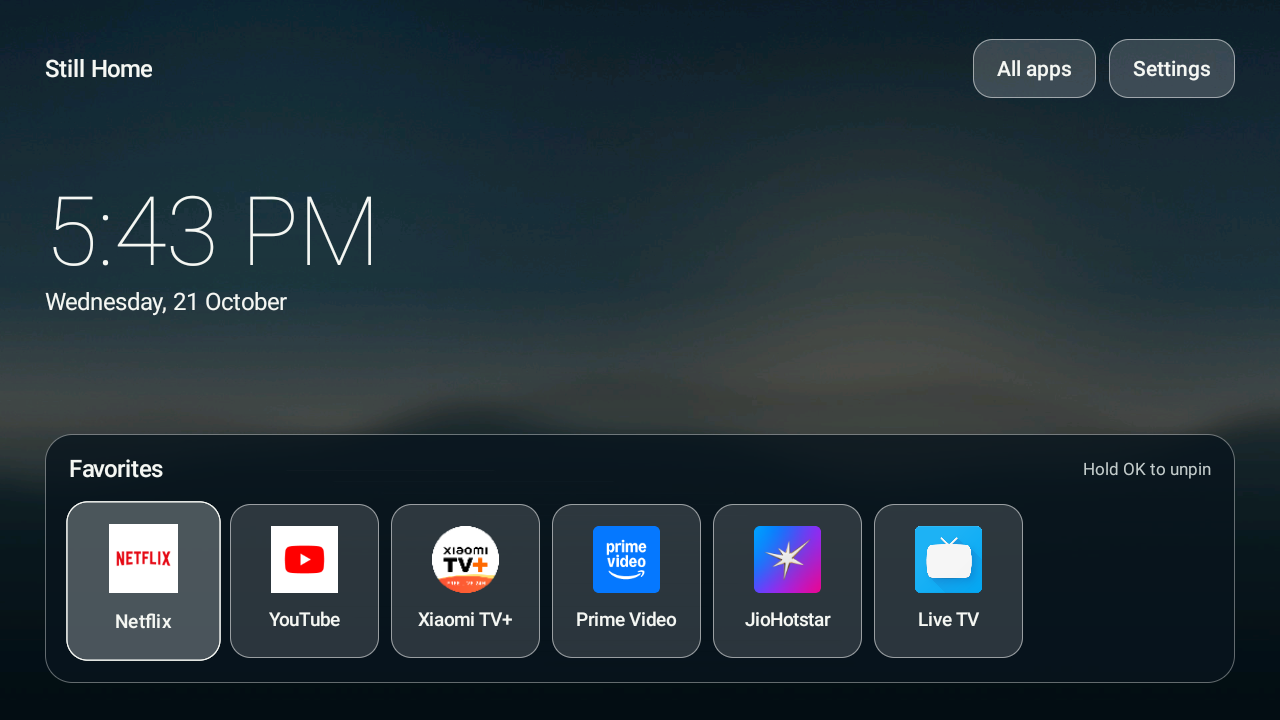
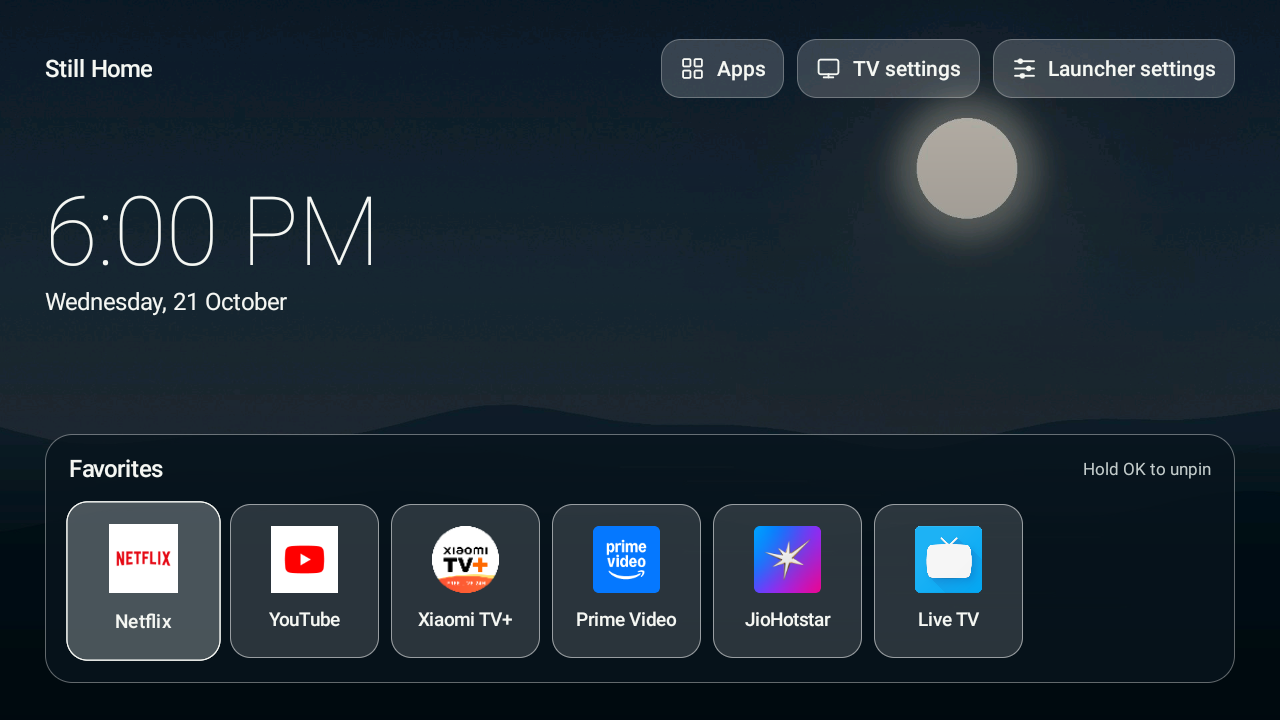
Add TV system settings action to home toolbar

Changed region(s): [[0.0, 0.3361, 1.0, 0.6722], [0.5, 0.0306, 0.9688, 0.3361], [0.0312, 0.275, 0.1875, 0.3667]]

diff --git a/app/src/main/java/dev/stillhome/tv/HomeActivity.java b/app/src/main/java/dev/stillhome/tv/HomeActivity.java
@@ -1,10 +1,12 @@
 package dev.stillhome.tv;
 
 import android.app.Activity;
+import android.content.ActivityNotFoundException;
 import android.content.Intent;
 import android.graphics.Typeface;
 import android.net.Uri;
 import android.os.Bundle;
+import android.provider.Settings;
 import android.text.TextUtils;
 import android.view.Gravity;
 import android.view.View;
@@ -42,6 +44,7 @@ public final class HomeActivity extends Activity {
     private boolean showingAllApps;
     private boolean hasLoadedApps;
     private boolean allAppsDirty = true;
+    private boolean hasRenderedFavorites;
     private int loadGeneration;
 
     @Override
@@ -102,15 +105,26 @@ public final class HomeActivity extends Activity {
         top.addView(brand);
         top.addView(TvUi.space(this), new LinearLayout.LayoutParams(0, 1, 1));
 
-        allAppsButton = TvUi.action(this, palette, "All apps");
+        allAppsButton = TvUi.iconAction(this, palette, "Apps", TvUi.ActionIcon.GRID);
         allAppsButton.setOnClickListener(view -> showAllApps());
         top.addView(allAppsButton);
-        TextView settings = TvUi.action(this, palette, "Settings");
-        LinearLayout.LayoutParams settingsParams = new LinearLayout.LayoutParams(
+
+        TextView tvSettings = TvUi.iconAction(this, palette,
+                "TV settings", TvUi.ActionIcon.DISPLAY);
+        LinearLayout.LayoutParams tvSettingsParams = new LinearLayout.LayoutParams(
                 LinearLayout.LayoutParams.WRAP_CONTENT, LinearLayout.LayoutParams.WRAP_CONTENT);
-        settingsParams.leftMargin = TvUi.dp(this, 10);
-        top.addView(settings, settingsParams);
-        settings.setOnClickListener(view -> startActivity(new Intent(this, SettingsActivity.class)));
+        tvSettingsParams.leftMargin = TvUi.dp(this, 10);
+        top.addView(tvSettings, tvSettingsParams);
+        tvSettings.setOnClickListener(view -> openTvSettings());
+
+        TextView launcherSettings = TvUi.iconAction(this, palette,
+                "Launcher settings", TvUi.ActionIcon.SLIDERS);
+        LinearLayout.LayoutParams launcherSettingsParams = new LinearLayout.LayoutParams(
+                LinearLayout.LayoutParams.WRAP_CONTENT, LinearLayout.LayoutParams.WRAP_CONTENT);
+        launcherSettingsParams.leftMargin = TvUi.dp(this, 10);
+        top.addView(launcherSettings, launcherSettingsParams);
+        launcherSettings.setOnClickListener(
+                view -> startActivity(new Intent(this, SettingsActivity.class)));
 
         TvUi.addVerticalSpace(homePage, this, 56);
         TextClock time = new TextClock(this);
@@ -186,6 +200,10 @@ public final class HomeActivity extends Activity {
         if (favoriteRow == null) {
             return;
         }
+        View oldFocused = favoriteRow.findFocus();
+        String focusedId = oldFocused != null && oldFocused.getTag() instanceof String
+                ? (String) oldFocused.getTag() : null;
+        boolean focusShelf = !showingAllApps && (oldFocused != null || !hasRenderedFavorites);
         favoriteRow.removeAllViews();
         if (apps.isEmpty()) {
             favoriteRow.addView(TvUi.text(this,
@@ -201,13 +219,14 @@ public final class HomeActivity extends Activity {
         if (favorites.isEmpty()) {
             favoriteRow.addView(TvUi.text(this,
                     "Open All apps and hold OK to pin favorites.", 16, TvUi.MUTED, false));
-            if (!showingAllApps) {
+            if (!showingAllApps && (oldFocused != null || getCurrentFocus() == null)) {
                 allAppsButton.requestFocus();
             }
             return;
         }
 
-        boolean first = true;
+        View firstTile = null;
+        View restoredTile = null;
         for (String packageName : favorites) {
             AppEntry app = byPackage.get(packageName);
             if (app == null) {
@@ -218,10 +237,18 @@ public final class HomeActivity extends Activity {
                     TvUi.dp(this, 112), TvUi.dp(this, 116));
             params.rightMargin = TvUi.dp(this, 9);
             favoriteRow.addView(tile, params);
-            if (first && !showingAllApps) {
-                first = false;
-                tile.requestFocus();
+            if (firstTile == null) {
+                firstTile = tile;
             }
+            if (focusedId != null && focusedId.equals(tile.getTag())) {
+                restoredTile = tile;
+            }
+        }
+        if (firstTile != null) {
+            hasRenderedFavorites = true;
+        }
+        if (focusShelf && firstTile != null) {
+            (restoredTile != null ? restoredTile : firstTile).requestFocus();
         }
     }
 
@@ -273,6 +300,14 @@ public final class HomeActivity extends Activity {
             renderAllApps();
         }
         focusFirstApp();
+    }
+
+    private void openTvSettings() {
+        try {
+            startActivity(new Intent(Settings.ACTION_SETTINGS));
+        } catch (ActivityNotFoundException | SecurityException error) {
+            Toast.makeText(this, "TV settings are unavailable", Toast.LENGTH_LONG).show();
+        }
     }
 
     private void showHome() {

diff --git a/app/src/main/java/dev/stillhome/tv/TvUi.java b/app/src/main/java/dev/stillhome/tv/TvUi.java
@@ -2,8 +2,14 @@ package dev.stillhome.tv;
 
 import android.app.Activity;
 import android.content.Context;
+import android.graphics.Canvas;
 import android.graphics.Color;
+import android.graphics.ColorFilter;
+import android.graphics.Paint;
+import android.graphics.PixelFormat;
+import android.graphics.Rect;
 import android.graphics.Typeface;
+import android.graphics.drawable.Drawable;
 import android.graphics.drawable.GradientDrawable;
 import android.graphics.drawable.StateListDrawable;
 import android.view.Gravity;
@@ -19,6 +25,7 @@ import android.widget.TextView;
 final class TvUi {
     static final int WHITE = 0xFFF5F7F3;
     static final int MUTED = 0xFFC3CCCB;
+    enum ActionIcon { GRID, DISPLAY, SLIDERS }
 
     private TvUi() { }
 
@@ -87,6 +94,88 @@ final class TvUi {
         view.setMinHeight(dp(context, 44));
         focusSurface(view, palette, 0x2CFFFFFF, 14);
         return view;
+    }
+
+    static TextView iconAction(Context context, Palette palette, String label,
+                               ActionIcon icon) {
+        TextView view = text(context, label, 16, WHITE, true);
+        view.setGravity(Gravity.CENTER);
+        view.setSingleLine(true);
+        view.setPadding(dp(context, 14), dp(context, 9),
+                dp(context, 14), dp(context, 9));
+        view.setMinHeight(dp(context, 44));
+        view.setCompoundDrawablePadding(dp(context, 8));
+        ToolbarIconDrawable drawable = new ToolbarIconDrawable(icon);
+        int iconSize = dp(context, 19);
+        drawable.setBounds(0, 0, iconSize, iconSize);
+        view.setCompoundDrawablesRelative(drawable, null, null, null);
+        view.setContentDescription(label);
+        focusSurface(view, palette, 0x2CFFFFFF, 14);
+        return view;
+    }
+
+    private static final class ToolbarIconDrawable extends Drawable {
+        private final ActionIcon icon;
+        private final Paint paint = new Paint(Paint.ANTI_ALIAS_FLAG);
+
+        ToolbarIconDrawable(ActionIcon icon) {
+            this.icon = icon;
+            paint.setColor(WHITE);
+            paint.setStyle(Paint.Style.STROKE);
+            paint.setStrokeWidth(1.8f);
+            paint.setStrokeCap(Paint.Cap.ROUND);
+            paint.setStrokeJoin(Paint.Join.ROUND);
+        }
+
+        @Override
+        public void draw(Canvas canvas) {
+            Rect bounds = getBounds();
+            canvas.save();
+            canvas.translate(bounds.left, bounds.top);
+            canvas.scale(bounds.width() / 24f, bounds.height() / 24f);
+            switch (icon) {
+                case GRID:
+                    canvas.drawRoundRect(3, 3, 10, 10, 1.3f, 1.3f, paint);
+                    canvas.drawRoundRect(14, 3, 21, 10, 1.3f, 1.3f, paint);
+                    canvas.drawRoundRect(3, 14, 10, 21, 1.3f, 1.3f, paint);
+                    canvas.drawRoundRect(14, 14, 21, 21, 1.3f, 1.3f, paint);
+                    break;
+                case DISPLAY:
+                    canvas.drawRoundRect(2.5f, 3.5f, 21.5f, 17.5f,
+                            2.2f, 2.2f, paint);
+                    canvas.drawLine(12, 17.5f, 12, 20.5f, paint);
+                    canvas.drawLine(7.5f, 20.5f, 16.5f, 20.5f, paint);
+                    break;
+                case SLIDERS:
+                    canvas.drawLine(3, 5, 21, 5, paint);
+                    canvas.drawLine(3, 12, 21, 12, paint);
+                    canvas.drawLine(3, 19, 21, 19, paint);
+                    paint.setStyle(Paint.Style.FILL);
+                    canvas.drawCircle(8, 5, 2.6f, paint);
+                    canvas.drawCircle(16, 12, 2.6f, paint);
+                    canvas.drawCircle(10, 19, 2.6f, paint);
+                    paint.setStyle(Paint.Style.STROKE);
+                    break;
+            }
+            canvas.restore();
+        }
+
+        @Override
+        public void setAlpha(int alpha) {
+            paint.setAlpha(alpha);
+            invalidateSelf();
+        }
+
+        @Override
+        public void setColorFilter(ColorFilter filter) {
+            paint.setColorFilter(filter);
+            invalidateSelf();
+        }
+
+        @Override
+        public int getOpacity() {
+            return PixelFormat.TRANSLUCENT;
+        }
     }
 
     static void clipToBounds(View view) {

diff --git a/app/src/main/java/dev/stillhome/tv/SettingsActivity.java b/app/src/main/java/dev/stillhome/tv/SettingsActivity.java
@@ -66,7 +66,7 @@ public final class SettingsActivity extends Activity {
         TextView back = TvUi.action(this, palette, "Back");
         back.setOnClickListener(view -> finish());
         header.addView(back);
-        TextView title = TvUi.text(this, "Settings", 28, TvUi.WHITE, true);
+        TextView title = TvUi.text(this, "Launcher settings", 28, TvUi.WHITE, true);
         LinearLayout.LayoutParams titleParams = new LinearLayout.LayoutParams(-2, -2);
         titleParams.leftMargin = TvUi.dp(this, 18);
         header.addView(title, titleParams);

diff --git a/README.md b/README.md
@@ -9,6 +9,7 @@ The chosen layout follows [Horizon shelf](design/mockups/01_horizon_shelf.png). 
 ## What works
 
 - Launch TV apps discovered through Android's Leanback launcher category, with ordinary launchable apps as fallback. Netflix, YouTube, and Xiaomi TV+ are explicitly visible to package queries on Android 11+.
+- Open **TV settings** for the device's Network, Wi-Fi, Ethernet, and other Android settings; the separate **Launcher settings** action controls Still Home. The top actions have distinct grid, display, and sliders icons with short labels.
 - Pin or unpin favorites by holding OK on a tile. The shelf scrolls horizontally with the remote.
 - Choose one of three bundled backgrounds or send a personal photo from the Mac over ADB. Images decode off the UI thread at a bounded size.
 - Preview the clock screensaver and select it through Android's secure screensaver setting.
@@ -16,9 +17,9 @@ The chosen layout follows [Horizon shelf](design/mockups/01_horizon_shelf.png). 
 
 ## Verified on this TV
 
-The debug APK was built and installed over the local network. ADB remote key events opened and scrolled the app grid, pinned and unpinned a favorite, opened Netflix, YouTube, and Xiaomi TV+, and returned to Still Home with the Home key. Built-in wallpaper changes, transfer and removal of a Mac photo, screensaver preview and selection, maintenance links, and the original-Home rollback were also exercised. The screensaver's natural idle trigger remains controlled by the TV firmware and has not been timed.
+The debug APK was built and installed over the local network. ADB remote key events opened and scrolled the app grid, pinned and unpinned a favorite, opened Netflix, YouTube, and Xiaomi TV+, and returned to Still Home with the Home key. The new TV settings action opened Android TV Settings, whose Network & Internet screen exposed Wi-Fi choices and whose home screen showed Ethernet status. The separate Launcher settings action opened Still Home's own preferences, and Back returned to Home with toolbar focus preserved. Built-in wallpaper changes, transfer and removal of a Mac photo, screensaver preview and selection, maintenance links, and the original-Home rollback were also exercised. The screensaver's natural idle trigger remains controlled by the TV firmware and has not been timed.
 
-The final APK is 236,549 bytes. Two `dumpsys meminfo` readings with Home open showed 52,950–66,537 kB total PSS. In one 12-key ADB navigation run after app loading, `gfxinfo` reported a 14 ms median frame time and one missed frame deadline across 30 frames. These small samples are not a comparison with the stock launcher or a real-world FPS guarantee; ADB input injection itself was reported as high latency.
+The installed version 0.1.1 debug APK is 213,153 bytes. Two earlier `dumpsys meminfo` readings with Home open showed 52,950–66,537 kB total PSS. In one 12-key ADB navigation run after app loading, `gfxinfo` reported a 14 ms median frame time and one missed frame deadline across 30 frames. These small samples are not a comparison with the stock launcher or a real-world FPS guarantee; ADB input injection itself was reported as high latency.
 
 ## Build
 
@@ -61,17 +62,17 @@ The package-level change is reversible and was required only because of this fir
 
 ## Send your own wallpaper
 
-On the TV, open Still Home **Settings → Built-in wallpapers** to choose Horizon, Stone, or Night. This Redmi firmware only exposes a stub for Android's document picker. Send a JPEG, PNG, or WebP image (up to 15 MiB) from the Mac:
+On the TV, open **Launcher settings → Built-in wallpapers** to choose Horizon, Stone, or Night. This Redmi firmware only exposes a stub for Android's document picker. Send a JPEG, PNG, or WebP image (up to 15 MiB) from the Mac:
 
 ```sh
 python3 scripts/send_wallpaper.py ~/Pictures/my-wallpaper.jpg
 ```
 
-The script validates the complete image with macOS `sips`, copies it into Still Home's private storage through authenticated ADB, and confirms that the TV selected it. Its filename remains recognizable in **Settings → Photos from Mac**. Up to 12 photos can be kept; hold OK on one in Settings to remove it. The transfer uses Android's `run-as`, which works with the **debug APK built by this project**. If the TV's IP changes, reconnect ADB and pass `--serial NEW_IP:5555`. The image stays local to the TV; Still Home has no network permission.
+The script validates the complete image with macOS `sips`, copies it into Still Home's private storage through authenticated ADB, and confirms that the TV selected it. Its filename remains recognizable in **Launcher settings → Photos from Mac**. Up to 12 photos can be kept; hold OK on one there to remove it. The transfer uses Android's `run-as`, which works with the **debug APK built by this project**. If the TV's IP changes, reconnect ADB and pass `--serial NEW_IP:5555`. The image stays local to the TV; Still Home has no network permission.
 
 ## Select the screensaver
 
-The TV has no working Android screensaver selection page. First use **Settings → Preview** in Still Home to inspect it. Then select the registered service with the helper:
+The TV has no working Android screensaver selection page. First use **Launcher settings → Preview** in Still Home to inspect it. Then select the registered service with the helper:
 
 ```sh
 python3 scripts/configure_screensaver.py status

diff --git a/docs/RESEARCH_AND_PLAN.md b/docs/RESEARCH_AND_PLAN.md
@@ -13,6 +13,7 @@ The 1 GiB RAM figure is a reason to keep the launcher small. It does not imply t
 ## Design and implementation
 
 1. **Home:** an exported `MAIN + HOME + DEFAULT` activity, plus a separate `LEANBACK_LAUNCHER` entry and TV banner. The Home button is routed by Android; an ordinary activity cannot intercept it ([Android Home key](https://developer.android.com/reference/android/view/KeyEvent), [TV app setup](https://developer.android.com/training/tv/get-started/create)).
+   The top row has separate Apps, TV settings, and Launcher settings actions. The TV settings action uses Android's documented `Settings.ACTION_SETTINGS` implicit intent, which resolves to `com.android.tv.settings/.MainSettings` on this Redmi TV. Directly starting the intent requires no package-visibility `<queries>` entry ([Settings API](https://developer.android.com/reference/android/provider/Settings), [package-visibility use cases](https://developer.android.com/training/package-visibility/use-cases)).
 2. **Apps:** query `LEANBACK_LAUNCHER` first and `LAUNCHER` second, with manifest `<queries>` declarations required by Android 11 package visibility ([package visibility](https://developer.android.com/training/package-visibility/declaring)). Explicit known packages cover Netflix, YouTube and [Xiaomi TV+](https://play.google.com/store/apps/details?id=com.mitv.tvhome.mitvplus). Launch the exported component Android reports; do not hard-code app activities.
 3. **Visuals:** Horizon shelf is the chosen runtime layout. Wallpapers are small bundled JPEGs or a personal image sent from the Mac; custom photos decode on a worker thread in RGB 565. A static tinted panel gives a glass-like feel without per-frame blur. Only focus changes animate, for 130 ms. This TV resolves Android document intents to a nonfunctional framework stub, so the personal-image workflow uses `scripts/send_wallpaper.py` and the installed debug app's `run-as` access. The transfer validates the image on the Mac, keeps at most 12 imports, and offers removal by holding OK on a photo in Settings.
 4. **Screensaver:** register a `DreamService`, show the chosen wallpaper dimmed, and shift the clock slightly once per minute ([DreamService](https://developer.android.com/reference/android/service/dreams/DreamService)). This TV does not resolve `android.settings.DREAM_SETTINGS`, so `scripts/configure_screensaver.py` checks that the service is installed, saves the original secure setting in a TV-bound backup, selects Still Home's service, verifies it, and can restore the original value. Android still controls when it runs.
@@ -21,7 +22,7 @@ The 1 GiB RAM figure is a reason to keep the launcher small. It does not imply t
 
 ## Device verification
 
-The debug APK was built and installed on this TV. ADB key events exercised Home focus and D-pad navigation, the scrolling All apps grid with 21 launchable apps, hold-OK favorite changes, and return from Netflix, YouTube, and Xiaomi TV+ via the Home key. Built-in wallpaper changes, a Mac photo transfer and removal, screensaver preview and secure-setting selection, and the maintenance screen were checked on the device. The original Google TV Home setup was restored once and then Still Home was selected again. The TV is now left on Still Home. Two `dumpsys meminfo` snapshots with Home open showed 52,950–66,537 kB total PSS. One rapid 12-key ADB navigation run after app loading showed a 14 ms median frame time and one frame-deadline miss across 30 frames. ADB injection reported high input latency, so this is a local diagnostic rather than a remote-control performance guarantee. Physical-remote key mapping and the firmware's natural screensaver idle trigger have not been independently timed.
+The debug APK was built and installed on this TV. ADB key events exercised Home focus and D-pad navigation, the scrolling All apps grid with 21 launchable apps, hold-OK favorite changes, and return from Netflix, YouTube, and Xiaomi TV+ via the Home key. The new TV settings action opened `com.android.tv.settings/.MainSettings`; its Network & Internet screen exposed Wi-Fi choices, and the settings home showed Ethernet status. The separate Launcher settings action opened Still Home's preferences, and Back preserved toolbar focus. Built-in wallpaper changes, a Mac photo transfer and removal, screensaver preview and secure-setting selection, and the maintenance screen were checked on the device. The original Google TV Home setup was restored once and then Still Home was selected again. The TV is now left on Still Home. Two `dumpsys meminfo` snapshots with Home open showed 52,950–66,537 kB total PSS. One rapid 12-key ADB navigation run after app loading showed a 14 ms median frame time and one frame-deadline miss across 30 frames. ADB injection reported high input latency, so this is a local diagnostic rather than a remote-control performance guarantee. Physical-remote key mapping and the firmware's natural screensaver idle trigger have not been independently timed.
 
 ## Limits
 
